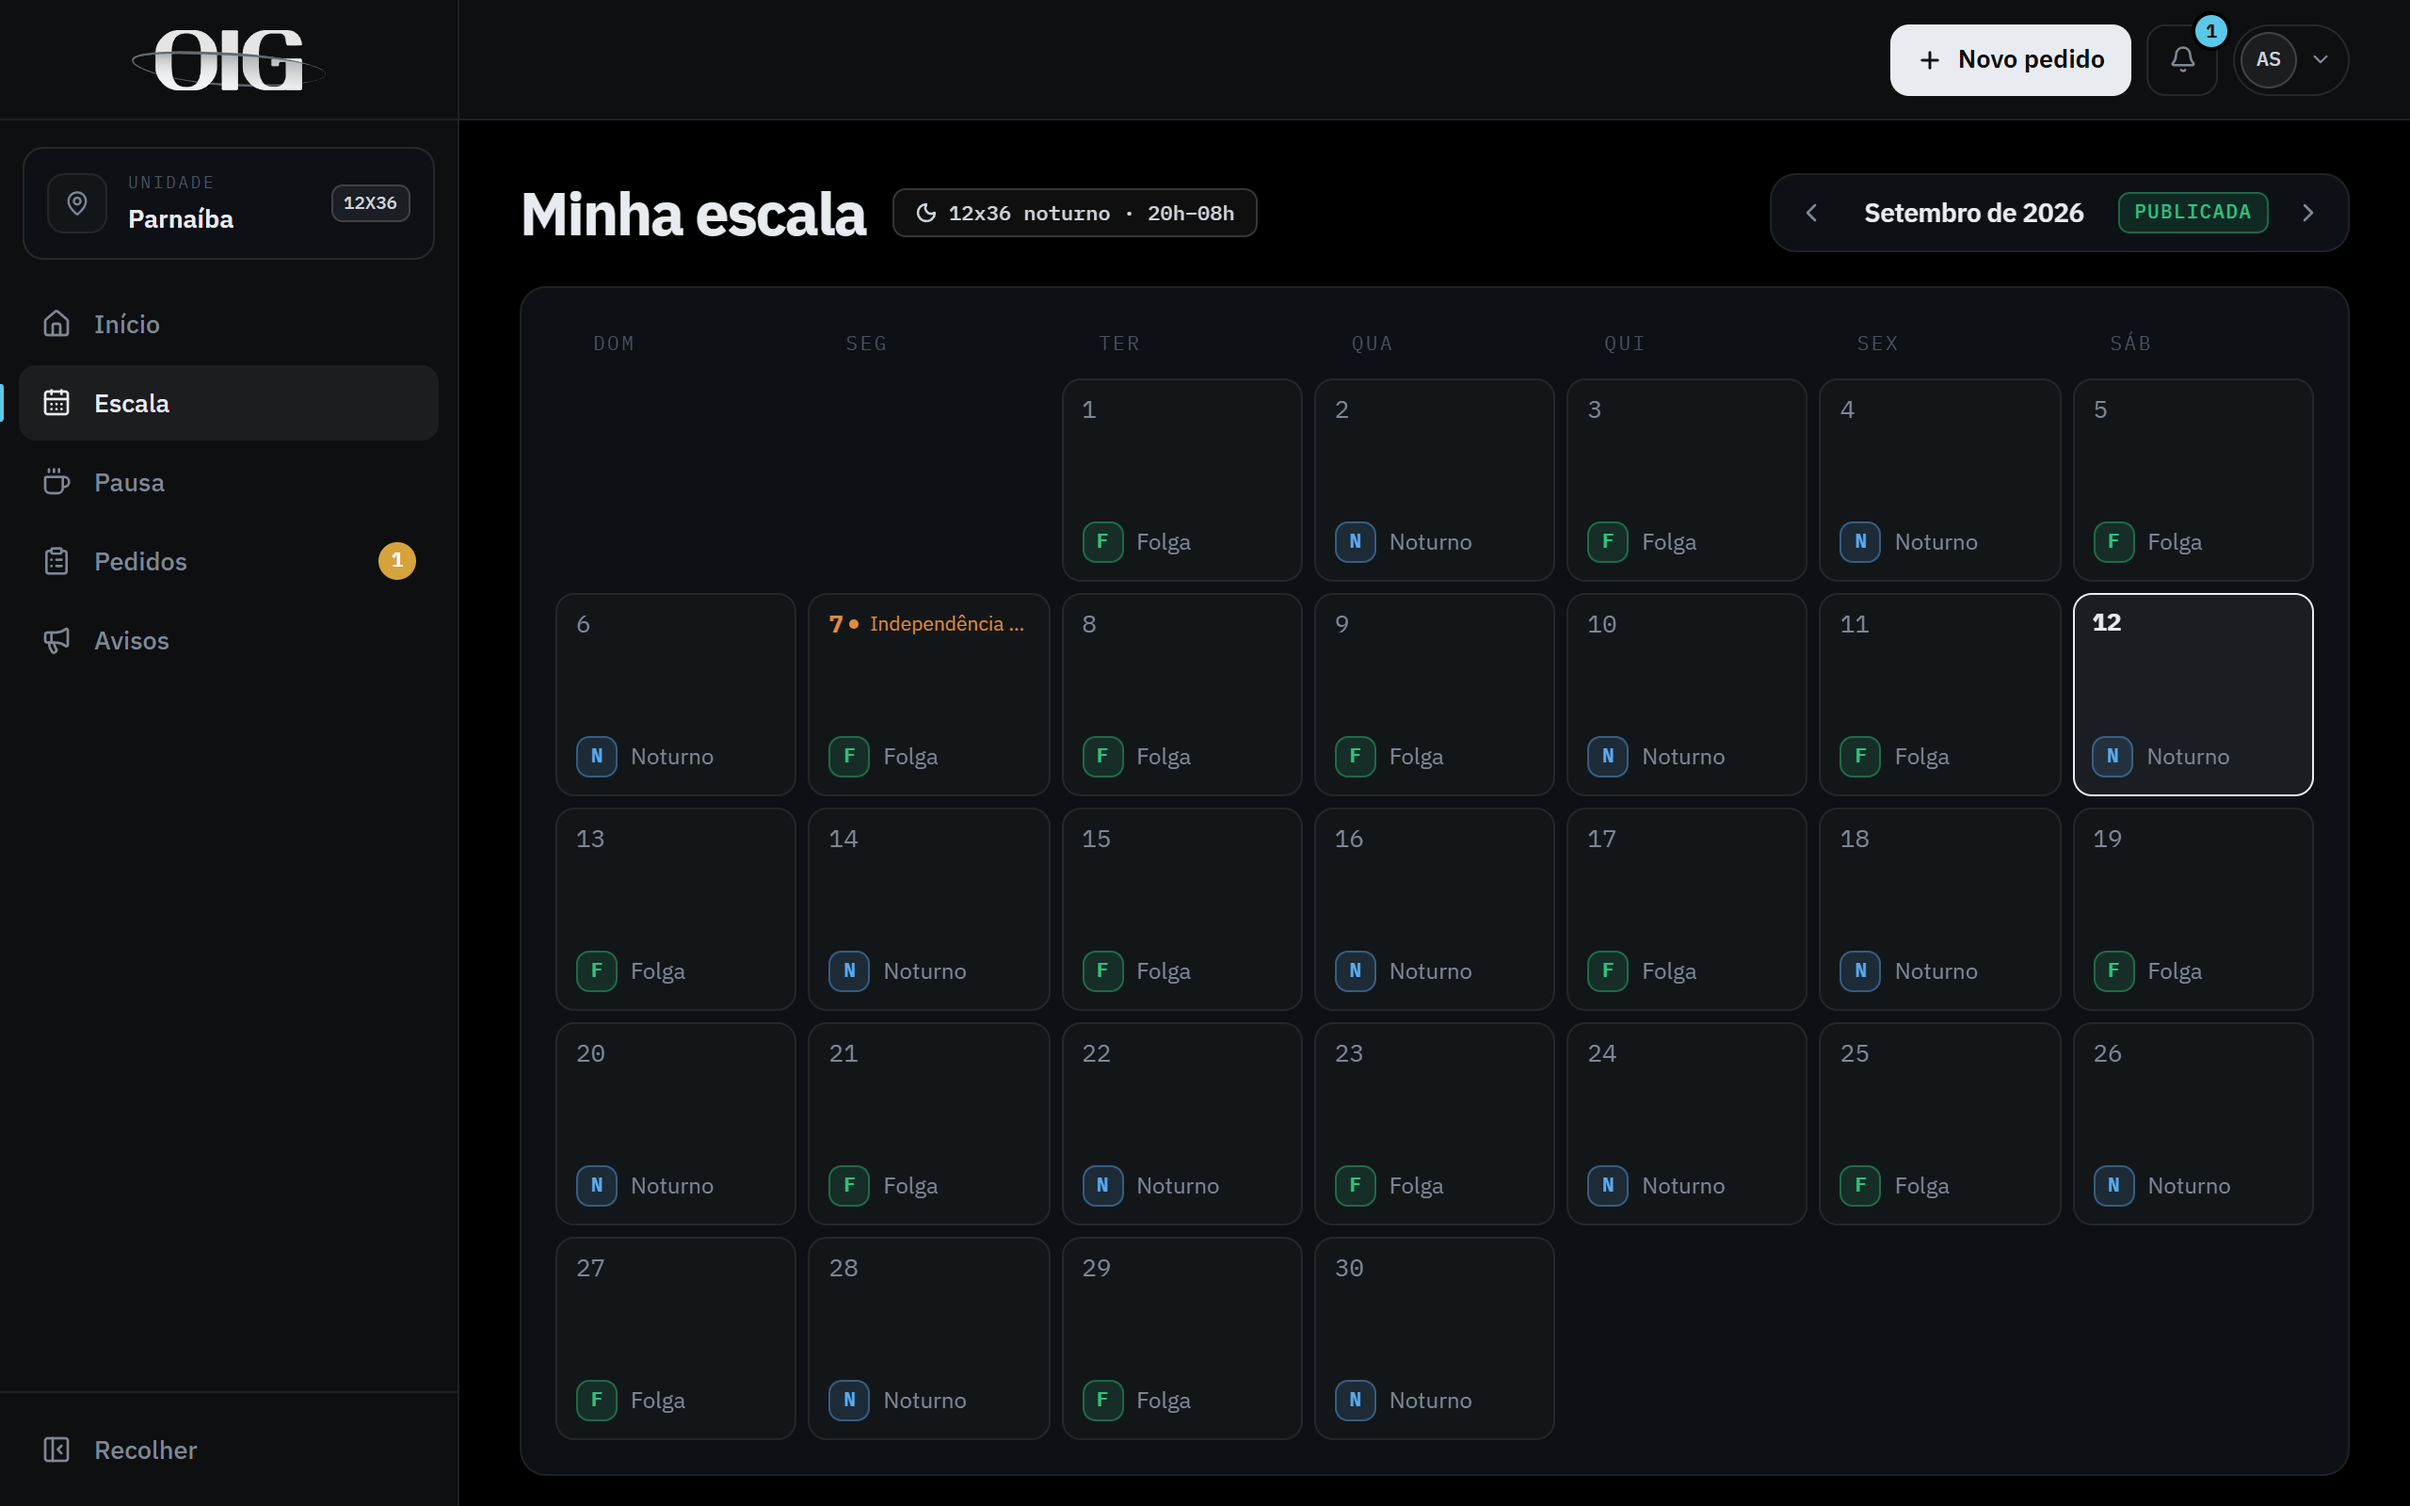
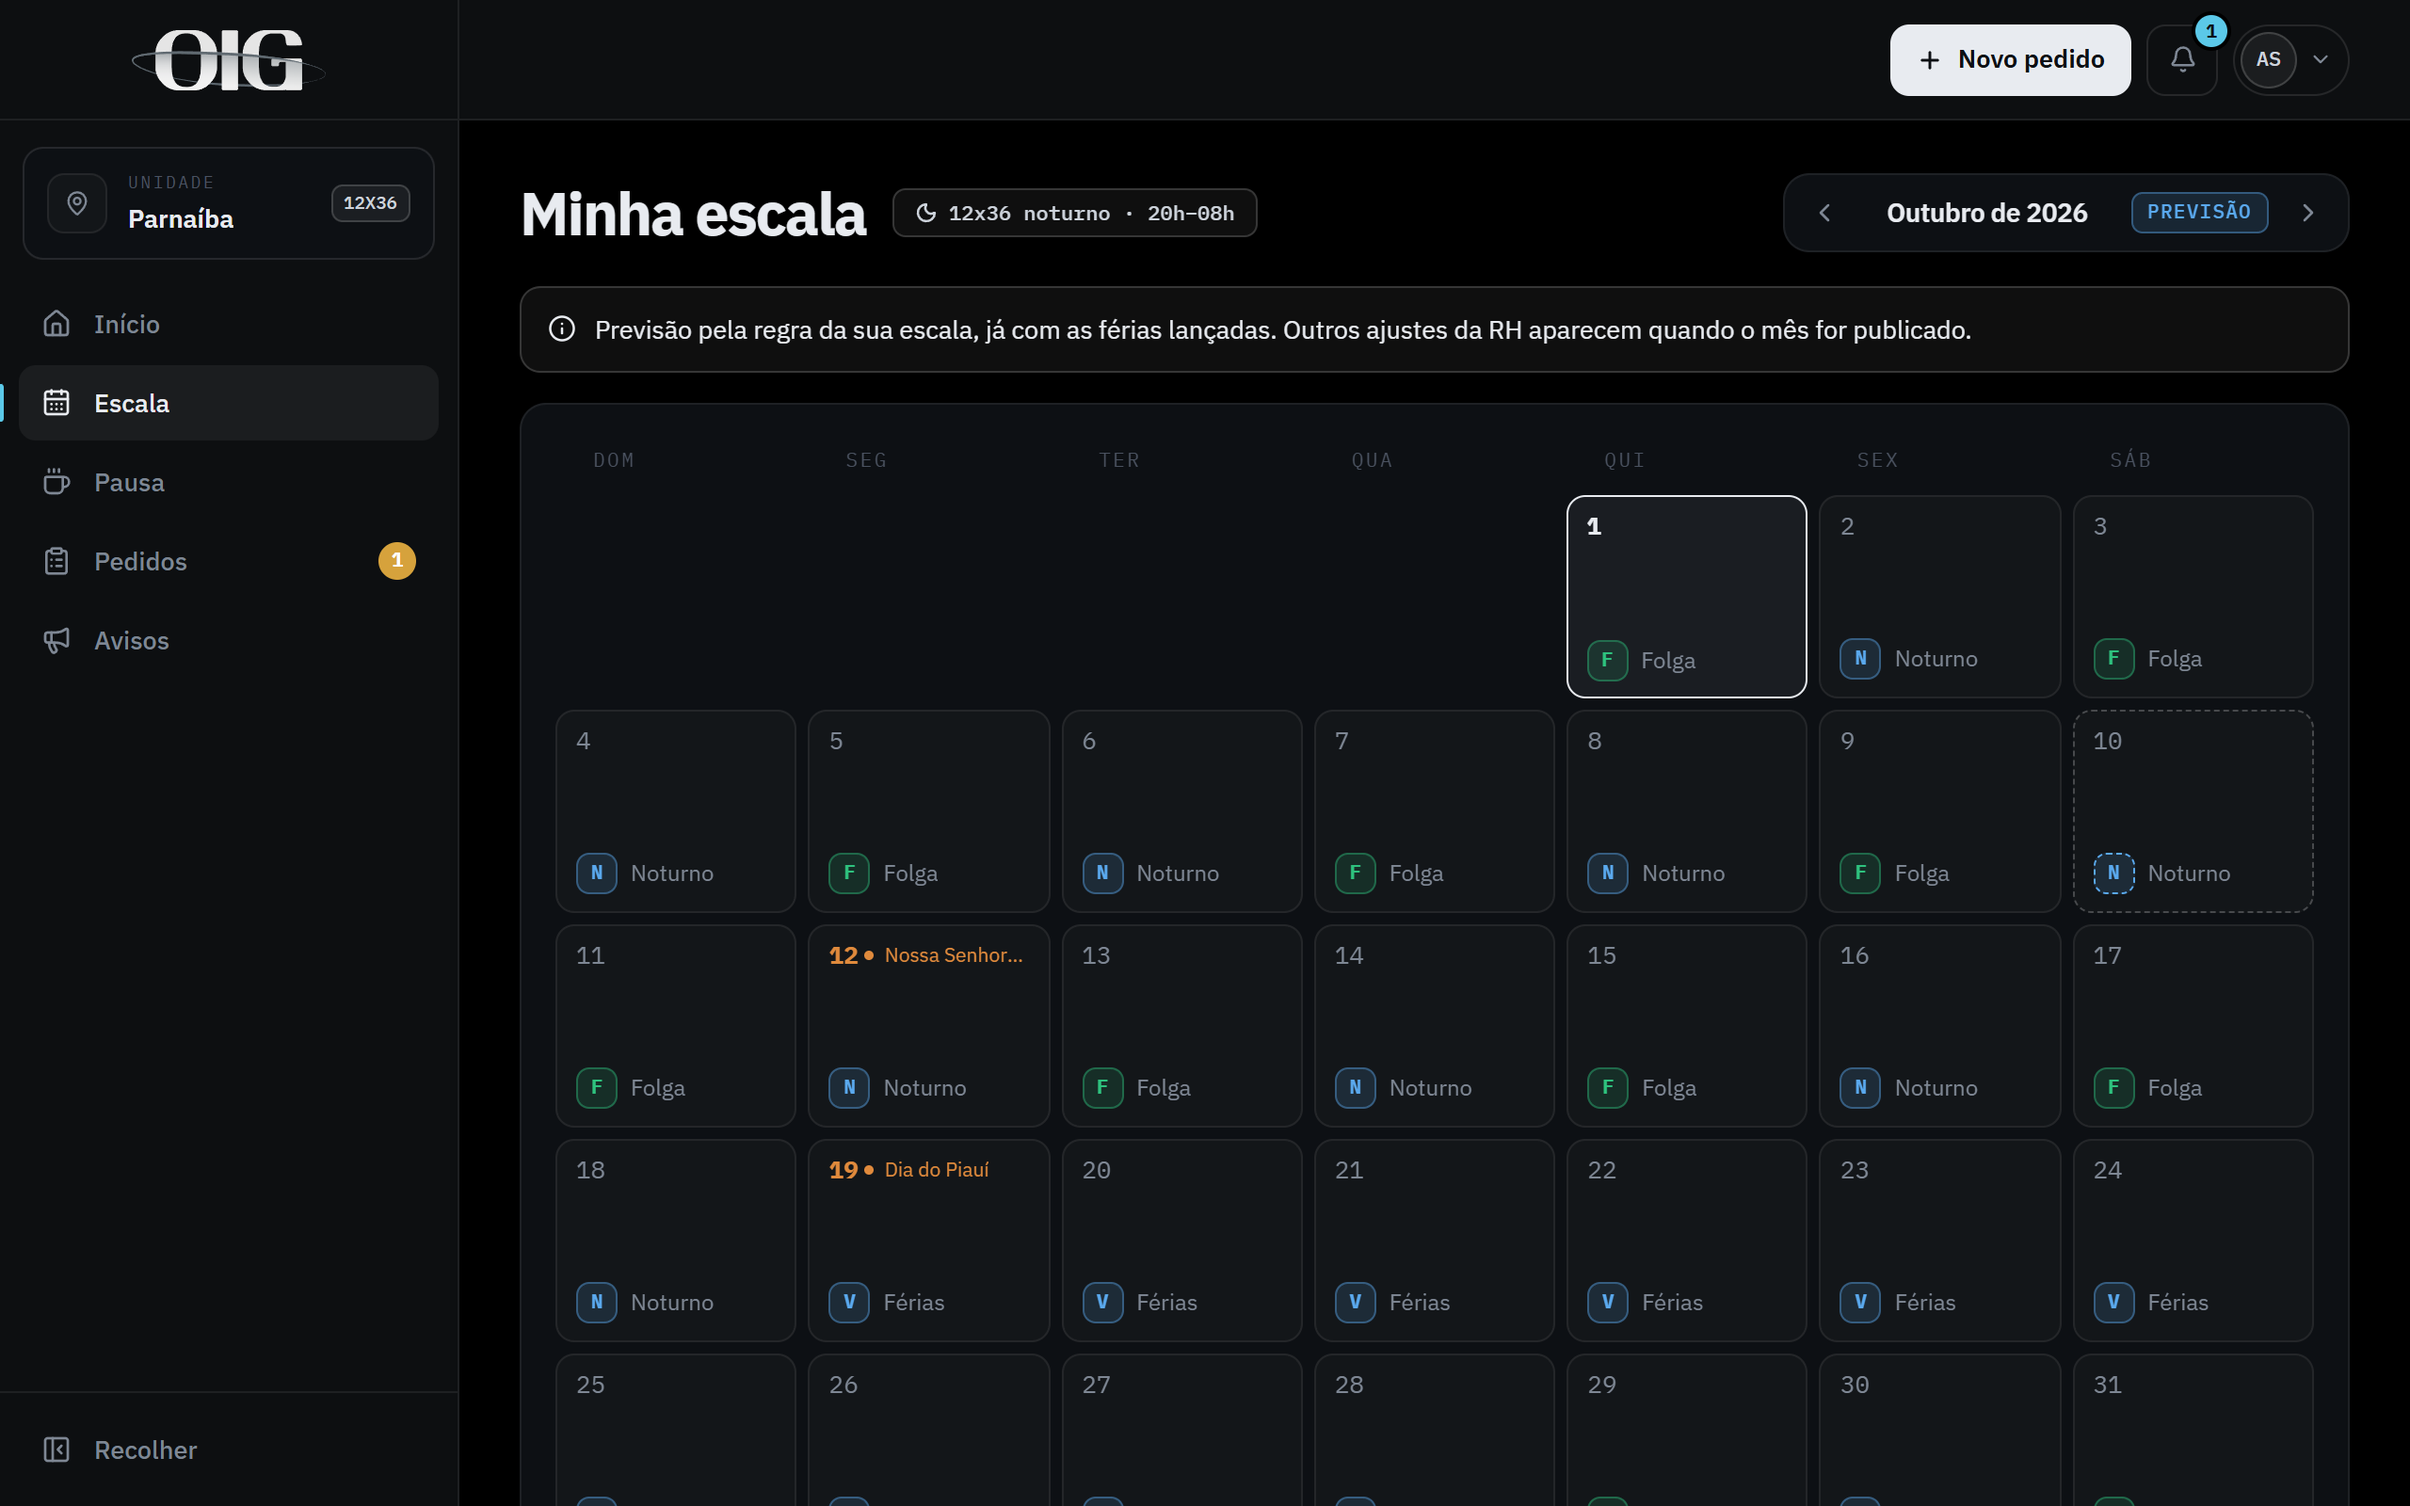
mostra o app de escalas do lado do colaborador
Telas do colaborador no computador e no celular, com a previsão do mês e as férias. O problema e o resultado descrevem o pedido da RH e que o app ainda não tem previsão de produção.

diff --git a/src/content/projects/escalas-e-folgas.md b/src/content/projects/escalas-e-folgas.md
@@ -7,20 +7,22 @@ meta: Cliente · OIG · 2026
 year: 2026
 client: OIG
 role: Desenvolvimento full stack
-status: "[STATUS]"
+status: Solicitado pela RH · sem previsão de produção
 stack:
   - React 19
   - TypeScript
   - Hono
   - MariaDB
   - PWA
-summary: App de escalas e folgas que substituiu a planilha mensal enviada pelo WhatsApp. A RH monta e publica a escala do mês, e cada colaborador acompanha a sua pelo celular, pede folga ou troca de horário e recebe os avisos da empresa.
+summary: App de escalas e folgas pedido pela RH para substituir a planilha mensal enviada pelo WhatsApp. Cada colaborador consegue prever o seu mês, ver as férias e pedir folga ou troca de horário, com tudo marcado no sistema.
 cover: ../../assets/projects/escalas-e-folgas.png
 ---
 
 ## O problema
 
-A escala do mês era uma planilha que a RH montava e mandava no WhatsApp. [COMO ERA LIDAR COM PEDIDOS DE FOLGA E MUDANÇAS NA ESCALA ANTES DO APP]
+A escala do mês é uma planilha que a RH monta e manda no WhatsApp. O objetivo é padronizar as escalas e fazer com que qualquer colaborador consiga prever o seu mês.
+
+Daqui para frente, quem tem escala fixa, como a 12x36, consegue ver os próximos meses e as férias, pedir troca de folga e acompanhar tudo marcado no sistema, com os detalhes de cada dia.
 
 ## Decisões
 
@@ -32,6 +34,26 @@ A escala do mês era uma planilha que a RH montava e mandava no WhatsApp. [COMO 
 
 ## O sistema
 
+### Para o colaborador
+
+Na tela inicial, o colaborador vê o turno de hoje, a próxima folga, a semana inteira e os seus pedidos.
+
+![Tela inicial do colaborador com o plantão de hoje, a próxima folga, a semana e os pedidos em aberto](../../assets/projects/escalas-e-folgas/inicio.png)
+
+Quem tem escala fixa já vê os meses seguintes, calculados pela regra da escala e com as férias lançadas, antes mesmo de a RH publicar o mês.
+
+![Calendário de outubro marcado como previsão, com os plantões, as folgas e os dias de férias do colaborador](../../assets/projects/escalas-e-folgas/escala.png)
+
+Para pedir folga, entrar mais cedo ou mudar a pausa, o calendário mostra só os dias que podem ser escolhidos.
+
+![Formulário de novo pedido com os tipos folga, entrar mais cedo e alterar pausa, e o calendário com os dias disponíveis](../../assets/projects/escalas-e-folgas/pedido.png)
+
+No celular, a navegação fica numa barra embaixo da tela.
+
+![Tela inicial e calendário do mês no celular, lado a lado](../../assets/projects/escalas-e-folgas/celular.png)
+
+### Para a RH
+
 No Quadro de escala, a RH vê o mês inteiro de uma cidade, com as folgas de cada pessoa, o limite de folgas por dia e os alertas.
 
 ![Quadro de escala do mês com as folgas de cada colaborador, agrupadas por tipo de escala](../../assets/projects/escalas-e-folgas/quadro.png)
@@ -40,12 +62,8 @@ Antes de aprovar um pedido, a RH vê quantas pessoas trabalham e quantas folgam 
 
 ![Detalhe de um pedido de folga com a cobertura do dia e os botões para aprovar, recusar ou sugerir outra data](../../assets/projects/escalas-e-folgas/solicitacao.png)
 
-O colaborador acompanha a própria escala num calendário, com os plantões, as folgas e os feriados do mês.
-
-![Calendário do colaborador com os dias de plantão noturno e de folga do mês](../../assets/projects/escalas-e-folgas/escala.png)
-
 Telas com dados fictícios do ambiente de demonstração.
 
 ## Resultado
 
-[RESULTADO]
+O app foi solicitado pela RH e ainda não está em produção. Por enquanto, não há previsão para entrar em produção.
